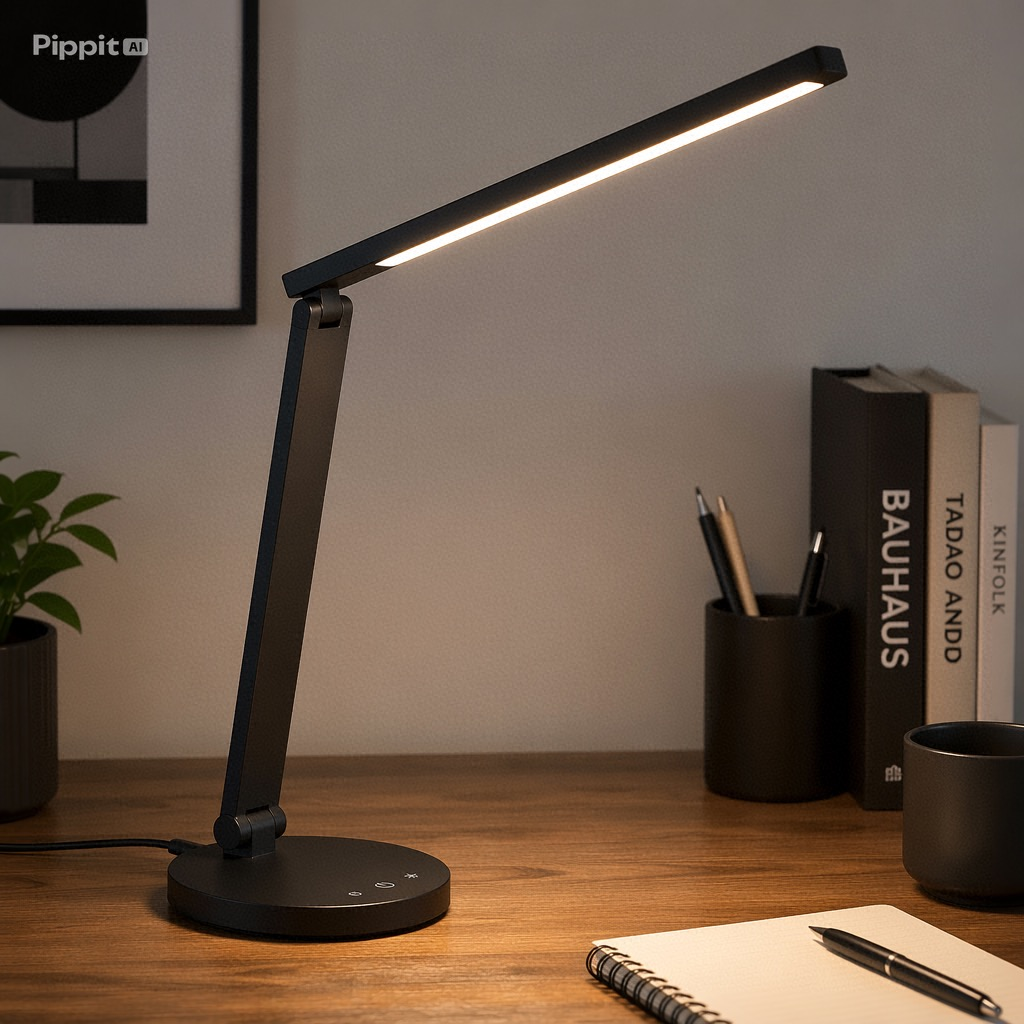
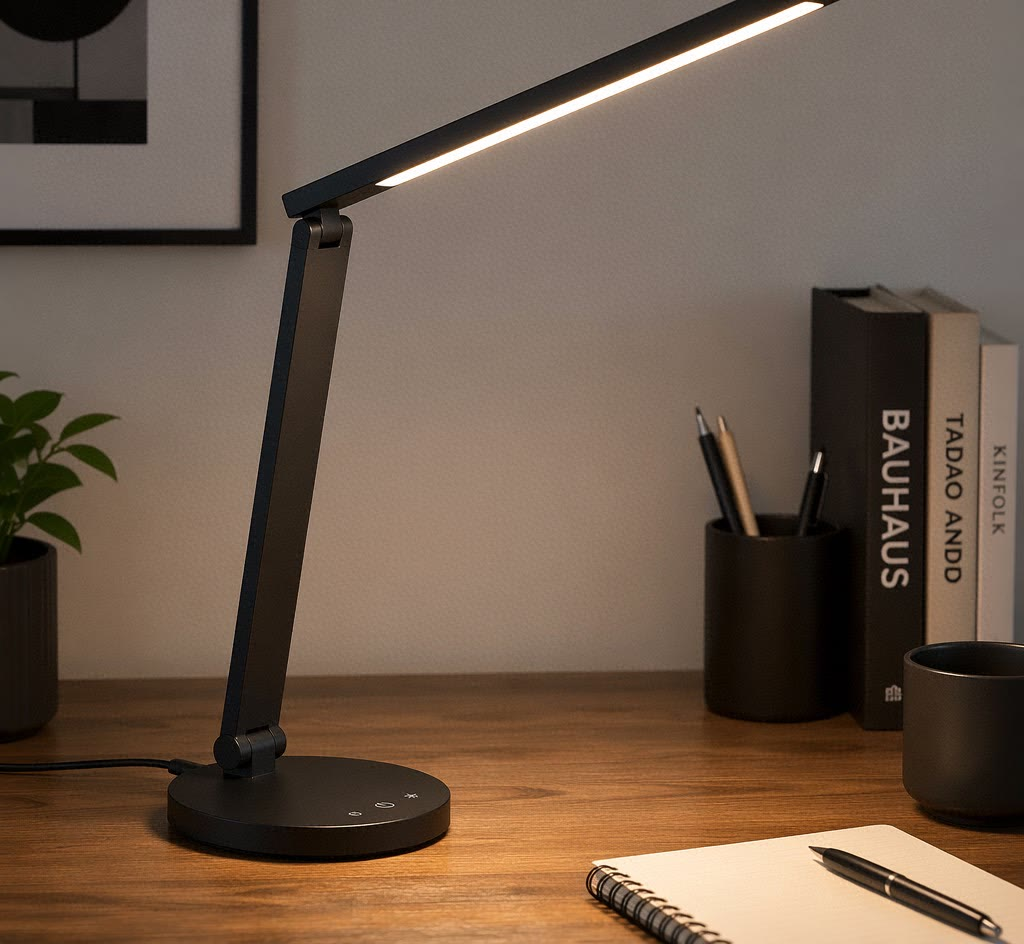
fix: GIF contain layout for proof section; crop Pippit watermark from lamp photo

diff --git a/components/PhotoPanel.tsx b/components/PhotoPanel.tsx
@@ -32,12 +32,14 @@ export default function PhotoPanel({ imageFile, label, hasFile }: PhotoPanelProp
 
   if (imageFile.endsWith(".gif")) {
     return (
-      // eslint-disable-next-line @next/next/no-img-element
-      <img
-        src={`/images/${imageFile}`}
-        alt={label}
-        style={{ width: "100%", height: "100%", objectFit: "cover", display: "block" }}
-      />
+      <div style={{ width: "100%", height: "100%", background: "var(--ink)", display: "flex", alignItems: "center", justifyContent: "center" }}>
+        {/* eslint-disable-next-line @next/next/no-img-element */}
+        <img
+          src={`/images/${imageFile}`}
+          alt={label}
+          style={{ width: "100%", height: "auto", display: "block" }}
+        />
+      </div>
     );
   }
 